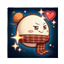
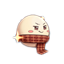
refactor: update Axis Core Handsome power to play stored cards twice; remove Feed enchantment and related mechanics; adjust localization in English and Chinese, and update associated image assets

diff --git a/JoiCode/Cards/Mua.cs b/JoiCode/Cards/Mua.cs
@@ -1,16 +1,12 @@
 using BaseLib.Abstracts;
 using BaseLib.Utils;
 using Joi.JoiCode.Character;
-using Joi.JoiCode.Enchantments;
 using Joi.JoiCode.Minions;
-using MegaCrit.Sts2.Core.CardSelection;
 using MegaCrit.Sts2.Core.Commands;
 using MegaCrit.Sts2.Core.Entities.Cards;
 using MegaCrit.Sts2.Core.Entities.Creatures;
 using MegaCrit.Sts2.Core.GameActions.Multiplayer;
-using MegaCrit.Sts2.Core.Localization;
 using MegaCrit.Sts2.Core.Localization.DynamicVars;
-using MegaCrit.Sts2.Core.Models;
 
 namespace Joi.JoiCode.Cards;
 
@@ -25,15 +21,13 @@ public class Mua : JoiCard
 
     protected override IEnumerable<DynamicVar> CanonicalVars =>
     [
-        new DynamicVar("Heal", 5)
+        new DynamicVar("Heal", 6)
     ];
 
     protected override async Task OnPlay(PlayerChoiceContext choiceContext, CardPlay cardPlay)
     {
         var definition = ZhouXin.GetSummonDefinition();
         var existing = SummonActions.FindExistingSummon(Owner.Creature, definition);
-
-        Creature zhouXin;
 
         if (existing != null)
         {
@@ -42,55 +36,17 @@ public class Mua : JoiCard
             var newMaxHp = currentMaxHp + DynamicVars["Heal"].IntValue;
             existing.SetMaxHpInternal(newMaxHp);
             existing.HealInternal(DynamicVars["Heal"].IntValue);
-            zhouXin = existing;
         }
         else
         {
             // 召唤新的轴芯
             ZhouXin.RandomizeName();
-            zhouXin = await SummonActions.SummonPet(definition, Owner);
-            zhouXin.SetMaxHpInternal(5);
-            zhouXin.HealInternal(5);
+            var zhouXin = await SummonActions.SummonPet(definition, Owner);
+            zhouXin.SetMaxHpInternal(6);
+            zhouXin.HealInternal(6);
 
-            // 播放召唤特效
             VfxCmd.PlayOnCreature(zhouXin, VfxCmd.healPath);
         }
-
-        // 无论是否已有轴芯，都执行喂食机制
-        await FeedCardToZhouXin(choiceContext, zhouXin);
-    }
-
-    private async Task FeedCardToZhouXin(PlayerChoiceContext choiceContext, Creature zhouXin)
-    {
-        // 过滤出可以被喂食附魔的手牌
-        var feedEnchantment = ModelDb.Enchantment<FeedEnchantment>();
-        var hand = Owner.PlayerCombatState?.Hand;
-        if (hand == null) return;
-
-        var eligibleCards = hand.Cards
-            .Where(c => c != this && feedEnchantment.CanEnchant(c))
-            .ToList();
-
-        if (eligibleCards.Count == 0)
-        {
-            return;
-        }
-
-        // 选择一张手牌
-        var selectionPrefs = new CardSelectorPrefs(
-            new LocString("cards", "JOI-MUA.feed_prompt"), 1);
-        var selected = (await CardSelectCmd.FromSimpleGrid(
-            choiceContext, eligibleCards, Owner, selectionPrefs)).FirstOrDefault();
-
-        if (selected == null)
-        {
-            return;
-        }
-
-        // 给卡牌添加喂食附魔
-        CardCmd.Enchant<FeedEnchantment>(selected, 1);
-
-        MainFile.Logger.Info($"[MUA] Added feed enchantment to card {selected.Id}");
     }
 
     protected override void OnUpgrade()

diff --git a/JoiCode/Powers/StoredCardPower.cs b/JoiCode/Powers/StoredCardPower.cs
@@ -84,9 +84,17 @@ public class StoredCardPower : JoiPower
 
         if (Owner.IsAlive)
         {
-            MainFile.Logger.Info($"[StoredCardPower] Auto-playing stored card {card.Id}");
+            // 检查玩家是否有 AxisCoreHandsomePower（打出两次）
+            var player = combatState.PlayerCreatures.FirstOrDefault(c => !c.IsPet && c.IsAlive);
+            int playCount = player?.GetPower<AxisCoreHandsomePower>() != null ? 2 : 1;
+
+            MainFile.Logger.Info($"[StoredCardPower] Auto-playing stored card {card.Id} x{playCount}");
             await CardPileCmd.Add(card, PileType.Hand);
-            await CardCmd.AutoPlay(choiceContext, card, null);
+
+            for (int i = 0; i < playCount; i++)
+            {
+                await CardCmd.AutoPlay(choiceContext, card, null);
+            }
         }
         else
         {

diff --git a/JoiCode/Powers/AxisCoreHandsomePower.cs b/JoiCode/Powers/AxisCoreHandsomePower.cs
@@ -1,21 +1,12 @@
-using Joi.JoiCode.Enchantments;
-using MegaCrit.Sts2.Core.Commands;
-using MegaCrit.Sts2.Core.Entities.Cards;
 using MegaCrit.Sts2.Core.Entities.Powers;
-using MegaCrit.Sts2.Core.GameActions.Multiplayer;
 
 namespace Joi.JoiCode.Powers;
 
+/// <summary>
+/// 轴芯好帅：轴芯会把存储的牌打出两次
+/// </summary>
 public class AxisCoreHandsomePower : JoiPower
 {
     public override PowerType Type => PowerType.Buff;
     public override PowerStackType StackType => PowerStackType.Single;
-
-    public override async Task AfterCardPlayed(PlayerChoiceContext context, CardPlay cardPlay)
-    {
-        if (cardPlay.Card.Enchantment is FeedEnchantment)
-        {
-            await CardPileCmd.Draw(context, 1, Owner.Player!);
-        }
-    }
 }
